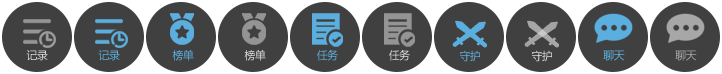
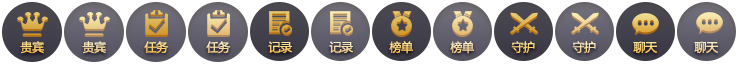
1

diff --git a/skin/game_comic/css/live.css b/skin/game_comic/css/live.css
@@ -37,7 +37,18 @@ ul li{ list-style: none}
 .fr{float:right; }
 .clearFix:after{ content:''; display:block; clear:both; }
 a{text-decoration:none; }
-
+/*跑道*/
+.list_top a,.list_top select,.list_top td,.list_top b{font-size:12px; text-decoration:none;}
+.list_top{ width:300px;height:35px;position:absolute; top:10px; left:0; right:0; padding-left:40px; overflow:hidden; background:url("/skin/comic/images/pic_gonggao_bg.png") no-repeat; margin: 0 auto; }
+.hot{width: 246px; height: 30px; position: relative; overflow: hidden; margin-top:2px; }
+#ulid{width:720px; height:30px; overflow:hidden; margin:0;padding:0; padding: 0px; border: 0px; line-height: 30px; display: inline-block; list-style: none; padding-left:16px; }
+#ulid li{list-style: none; margin-left: 0px;  border-left-width: 0px; border-right-width: 0px; display: inline; height:30px; float:left; margin-right:40px; line-height:30px;}
+#ulid li a{color:#ddd; font-weight:bold;}
+#ulid li .rwUser{color:#d2eea5; }
+#ulid li .upTit{color:#edad4c; }
+#ulid li .chatContent{color:#fff; }
+#ulid li .anchor{color:#f3909b; }
+#ulid li .gifts{color:#e6a5ee; }
 /**头部*/
 /*.header{width:100%;background:#444F64;height: 0px;overflow:hidden;position: relative;z-index: 9999}
 .logo{width:210px;height: 60px;background: url("../images/750.png") no-repeat center}*/
@@ -236,17 +247,23 @@ a{text-decoration:none; }
 
 /*菜单*/
 .switch-area{width:365px; position: fixed;right:50px;bottom: 10px;  z-index: 110;}
-.switch-area .Bmenu {display:none; overflow:hidden; background-repeat: no-repeat;background-image:url(../images/sucai-tb.png); cursor: pointer}
-.sw-chat {width:70px; height:70px; background-position: -578px -2px}
-.sw-chat-hover,.sw-chat:hover{width:70px; height:70px; background-position: -650px -2px}
-.sw-guard {width:70px; height:70px; background-position: -434px -2px}
-.sw-guard:hover,.sw-guard-hover {width:70px; height:70px; background-position: -506px -2px}
-.sw-mission {width:70px; height:70px; background-position: -290px -2px}
-.sw-mission-hover,.sw-mission:hover {width:70px; height:70px; background-position: -362px -2px}
-.sw-rank {width:70px; height:70px; background-position: -146px -2px}
-.sw-rank-hover,.sw-rank:hover {width:70px; height:70px; background-position: -218px -2px}
-.sw-record {width:70px; height:70px; background-position: -74px -2px}
-.sw-record-hover,.sw-record:hover {width:70px; height:70px; background-position: -2px -2px}
+.switch-area .Bmenu{display:inline-block; overflow:hidden; background-repeat: no-repeat;background-image:url(../images/sucai-tb.png);}
+
+.sw-chat {width:59px; height:59px; background-position: -616px -2px}
+.sw-chat-hover,.sw-chat:hover {width:59px; height:59px; background-position: -677px -2px}
+.sw-guard {width:59px; height:59px; background-position: -494px -2px}
+.sw-guard:hover,.sw-guard:hover {width:59px; height:59px; background-position: -555px -2px}
+.sw-mission {width:60px; height:60px; background-position: -126px -2px}
+.sw-mission-hover,.sw-mission:hover {width:60px; height:60px; background-position: -188px -2px}
+.sw-rank {width:59px; height:59px; background-position: -372px -2px}
+.sw-rank-hover,.sw-rank:hover {width:59px; height:59px; background-position: -433px -2px}
+.sw-record {width:59px; height:59px; background-position: -250px -2px}
+.sw-record-hover,.sw-record:hover {width:59px; height:59px; background-position: -311px -2px}
+.sw-vip {width:60px; height:60px; background-position: -2px -2px}
+.sw-vip-hover,.sw-vip:hover {width:60px; height:60px; background-position: -64px -2px}
+
+
+
 
 
 /*守护区*/

diff --git a/skin/comic/css/live.css b/skin/comic/css/live.css
@@ -253,17 +253,21 @@ a{text-decoration:none; }
 
 /*菜单*/
 .switch-area{width:365px; position: fixed;right:50px;bottom: 10px;  z-index: 110;}
-.switch-area .Bmenu {display:inline-block; overflow:hidden; background-repeat: no-repeat;background-image:url(../images/sucai-tb.png); cursor: pointer}
-.sw-chat {width:70px; height:70px; background-position: -578px -2px}
-.sw-chat-hover,.sw-chat:hover{width:70px; height:70px; background-position: -650px -2px}
-.sw-guard {width:70px; height:70px; background-position: -434px -2px}
-.sw-guard:hover,.sw-guard-hover {width:70px; height:70px; background-position: -506px -2px}
-.sw-mission {width:70px; height:70px; background-position: -290px -2px}
-.sw-mission-hover,.sw-mission:hover {width:70px; height:70px; background-position: -362px -2px}
-.sw-rank {width:70px; height:70px; background-position: -146px -2px}
-.sw-rank-hover,.sw-rank:hover {width:70px; height:70px; background-position: -218px -2px}
-.sw-record {width:70px; height:70px; background-position: -74px -2px}
-.sw-record-hover,.sw-record:hover {width:70px; height:70px; background-position: -2px -2px}
+.switch-area .Bmenu{display:inline-block; overflow:hidden; background-repeat: no-repeat;background-image:url(../images/sucai-tb.png);}
+
+.sw-chat {width:59px; height:59px; background-position: -616px -2px}
+.sw-chat-hover,.sw-chat:hover {width:59px; height:59px; background-position: -677px -2px}
+.sw-guard {width:59px; height:59px; background-position: -494px -2px}
+.sw-guard:hover,.sw-guard:hover {width:59px; height:59px; background-position: -555px -2px}
+.sw-mission {width:60px; height:60px; background-position: -126px -2px}
+.sw-mission-hover,.sw-mission:hover {width:60px; height:60px; background-position: -188px -2px}
+.sw-rank {width:59px; height:59px; background-position: -372px -2px}
+.sw-rank-hover,.sw-rank:hover {width:59px; height:59px; background-position: -433px -2px}
+.sw-record {width:59px; height:59px; background-position: -250px -2px}
+.sw-record-hover,.sw-record:hover {width:59px; height:59px; background-position: -311px -2px}
+.sw-vip {width:60px; height:60px; background-position: -2px -2px}
+.sw-vip-hover,.sw-vip:hover {width:60px; height:60px; background-position: -64px -2px}
+
 
 
 /*守护区*/

diff --git a/live_comic.php b/live_comic.php
@@ -477,8 +477,12 @@ if($thisHome ==1){
     <div class="sw-chat Bmenu" id="sw-chat"></div>
     <div class="sw-record Bmenu" id="sw-record"></div>
     <div class="sw-rank Bmenu" id="sw-rank"></div>
+    <?php if($roomType != "game"){ ?>
+        <div class="sw-guard Bmenu" id="sw-guard"></div>
+    <?php }else{?>
+        <!--<div class="sw-guard Bmenu" id="sw-guard"></div>-->
+    <?php }?>
 
-    <div class="sw-guard Bmenu" id="sw-guard"></div>
     <?php if(1==2){?>
         <div class="sw-mission-hover Bmenu" id="sw-mission"></div>
     <?php }?>
